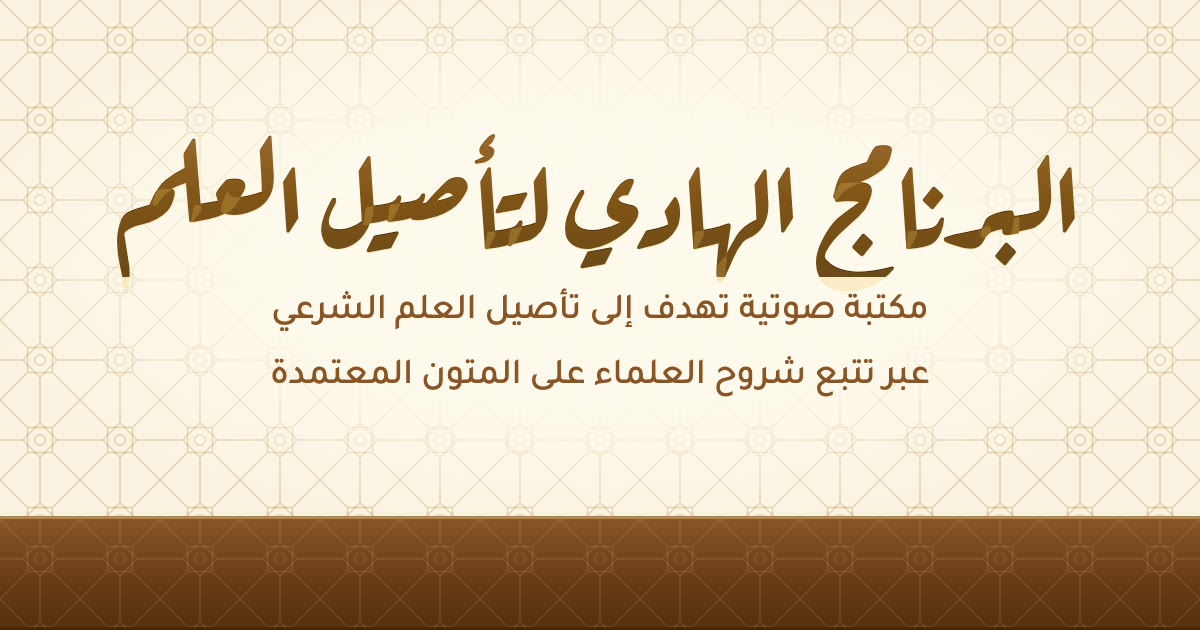
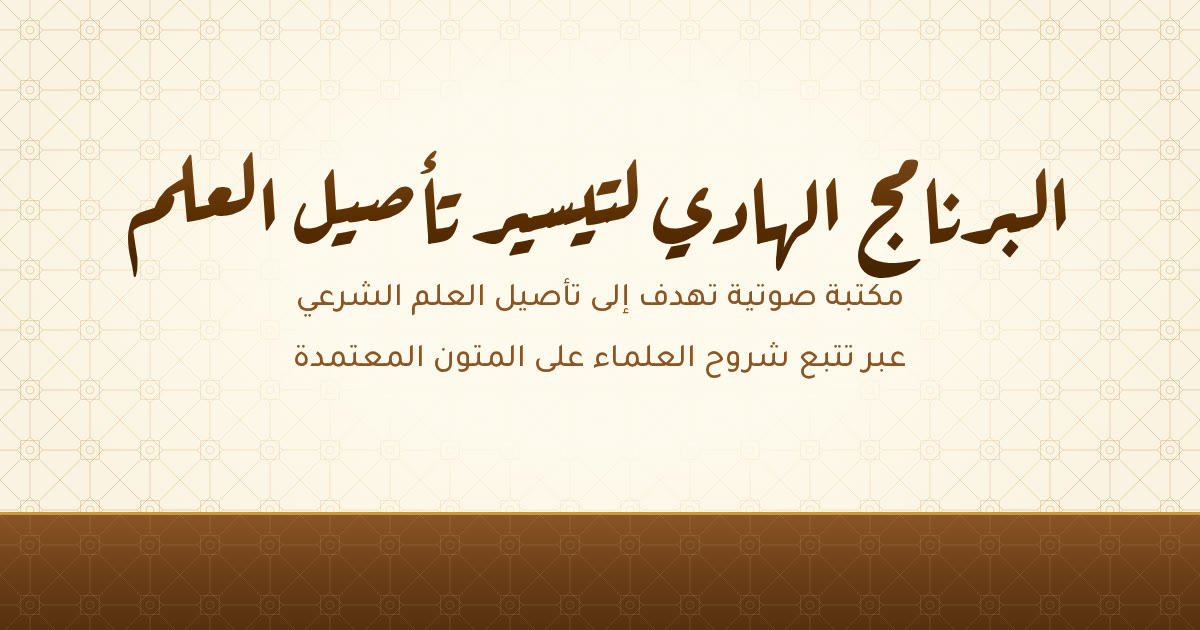
Site name: «البرنامج الهادي لتيسير تأصيل العلم», share picture remade (Zaid)

diff --git a/CLAUDE.md b/CLAUDE.md
@@ -1,6 +1,6 @@
 # CLAUDE.md
 
-البرنامج الهادي لتأصيل العلم: an Arabic (RTL) Islamic study site whose lessons are grouped into categories (العقيدة، الآداب، الحديث، علوم الحديث، الفقه، أصول وقواعد الفقه، التفسير، أصول وقواعد التفسير، السيرة، علوم العربية، الأذكار، تزكية النفس). Look follows rabee.net: cream parchment with a geometric pattern, brown/gold nav bar, panels with brown headers and round gold badges, Tajawal for text, Aref Ruqaa for the site name, Amiri for Qur'an and ḥadīth (deliberate, to match rabee.net: never swap in another Arabic font, e.g. Naskh). The user adds content little by little.
+البرنامج الهادي لتيسير تأصيل العلم: an Arabic (RTL) Islamic study site whose lessons are grouped into categories (العقيدة، الآداب، الحديث، علوم الحديث، الفقه، أصول وقواعد الفقه، التفسير، أصول وقواعد التفسير، السيرة، علوم العربية، الأذكار، تزكية النفس). Look follows rabee.net: cream parchment with a geometric pattern, brown/gold nav bar, panels with brown headers and round gold badges, Tajawal for text, Aref Ruqaa for the site name, Amiri for Qur'an and ḥadīth (deliberate, to match rabee.net: never swap in another Arabic font, e.g. Naskh). The user adds content little by little.
 
 Live at https://al-barnamaj-al-hadi.pages.dev (Cloudflare Pages project `al-barnamaj-al-hadi`, linked to GitHub `samycc777/al-barnamaj-al-hadi`: every push to `main` rebuilds and deploys it).
 
